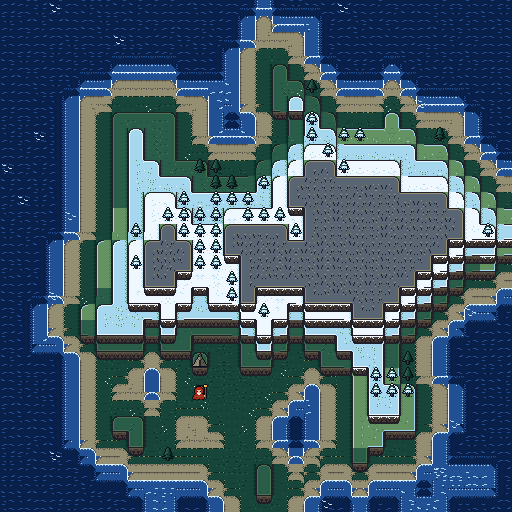
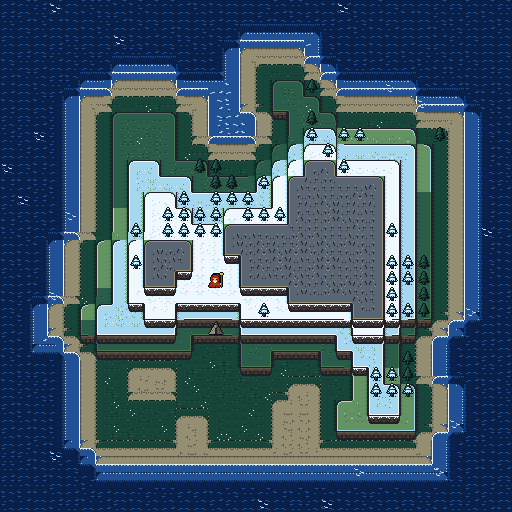
r3 QA fixes: couple birth cooldown, sea border, 2-tile minimum terrain, clock jumps, thirst weakness, draw order
Births: the k-th healthy woman pairs with the k-th healthy man, the mother's cooldown (2 spare bits of the 6-byte record) is 3 days. Island and archipelago keep open sea within 2 tiles of the border and about half land. A despeckle pass removes features narrower than 2 tiles. A forward clock jump over midnight is a new day, a jump back is not. A drink ends thirst weakness. Villagers are drawn in painter's order. Herder deferred to r4 (noted in RELEASE-NOTES).

Claude-Session: https://claude.ai/code/session_014RL3AjDiogV1FwtcmzD5Ni

diff --git a/lib/gamecore/src/village.cpp b/lib/gamecore/src/village.cpp
@@ -6,7 +6,8 @@
 // step round, in the shared scratch buffer g_dist.
 #include "village.h"
 
-enum { F_AGE = 3, F_FEM = 4, F_USED = 8, F_WEAK = 16, F_INSIDE = 32 };       // Vil.fl, bits 6-7: facing
+// Vil.fl: bits 0-1 age class, 2 female, 3 used, 4 weak, 5 and Vil.ra bit 7: a mother's birth cooldown in days (0..3); bits 6-7 facing
+enum { F_AGE = 3, F_FEM = 4, F_USED = 8, F_WEAK = 16 };
 enum { VSTEP_MS = 90, ANIM_MS = 420 };
 enum { K_CENTER = 100, K_WATER = 101, K_TREE = 102, K_SHORE = 103 };            // flow targets besides buildings (index + 1)
 enum { SITE = 0x80 };                                                          // Bld.tp: a building site, not yet finished
@@ -26,14 +27,22 @@ static uint32_t vr(void) { s_rng ^= s_rng << 13; s_rng ^= s_rng >> 17; s_rng ^= 
 
 static int used(int i) { return (V[i].fl & F_USED) != 0; }
 static int vrole(int i) { return V[i].ra & 15; }
-static int vact(int i) { return V[i].ra >> 4; }
+static int vact(int i) { return (V[i].ra >> 4) & 7; }
 static void set_role(int i, int r) { V[i].ra = (uint8_t)((V[i].ra & 0xF0) | r); }
-static void set_act(int i, int a) { V[i].ra = (uint8_t)((V[i].ra & 15) | (a << 4)); }
+static void set_act(int i, int a) { V[i].ra = (uint8_t)((V[i].ra & 0x8F) | (a << 4)); }
+static int cool(int i) { return ((V[i].fl >> 5) & 1) | ((V[i].ra >> 7) << 1); }
+static void set_cool(int i, int c) { V[i].fl = (uint8_t)((V[i].fl & ~32) | ((c & 1) << 5)); V[i].ra = (uint8_t)((V[i].ra & 0x7F) | ((c >> 1) << 7)); }
 static int vcls(int i) { return V[i].fl & F_AGE; }
 static int hunger(int i) { return V[i].nd & 7; }
 static int thirst(int i) { return V[i].nd >> 3; }
 static void set_hunger(int i, int h) { V[i].nd = (uint8_t)((V[i].nd & 0xF8) | (h > 7 ? 7 : h)); }
 static void set_thirst(int i, int t) { V[i].nd = (uint8_t)((V[i].nd & 7) | ((t > 31 ? 31 : t) << 3)); }
+// a drink ends the weakness of thirst at once (hunger weakness ends at the next meal)
+static void drink(int i) {
+  set_thirst(i, 0);
+  if (hunger(i) < HUNGER_WEAK) V[i].fl &= (uint8_t)~F_WEAK;
+}
+
 static int life(int i) { int v = V[i].age >> 5; return 20 + v + (v == 7 ? 1 : 0); }     // adult lifespan, 20..28 days
 static int days(int i) { return V[i].age & 31; }
 static int is_moving(int i) { int a = vact(i); return a == A_GO || a == A_BED || a == A_DRINK || a == A_RET; }
@@ -320,21 +329,28 @@ void village_new_day(int night) {
     trees++;
     mark_tile(x, y);
   }
-  // a child is born when there is a free bed, two days of food to spare and a fertile couple
-  int p = pop(), m = 0, f = 0;
-  for (int i = 0; i < MAXV; i++)
-    if (used(i) && vcls(i) == AGE_ADULT && !(V[i].fl & F_WEAK)) { if (V[i].fl & F_FEM) f++; else m++; }
-  if (p < MAXV && m && f && p < capacity() && s_food >= (uint16_t)(p * 6)) {
-    int x, y;
+  // Couples: the k-th healthy woman and the k-th healthy man of working age. A couple has a child about every 3 days
+  // (the woman's cooldown), when there is a free bed and two days of food to spare.
+  for (int i = 0; i < MAXV; i++) if (used(i) && cool(i) > 0) set_cool(i, cool(i) - 1);
+  for (int k = 0;; k++) {
+    int w = -1, m = -1, n;
+    n = k;
+    for (int i = 0; i < MAXV && w < 0; i++) if (used(i) && vcls(i) == AGE_ADULT && (V[i].fl & F_FEM) && !(V[i].fl & F_WEAK) && n-- == 0) w = i;
+    n = k;
+    for (int i = 0; i < MAXV && m < 0; i++) if (used(i) && vcls(i) == AGE_ADULT && !(V[i].fl & F_FEM) && !(V[i].fl & F_WEAK) && n-- == 0) m = i;
+    if (w < 0 || m < 0) break;
+    int p = pop();
+    if (cool(w) > 0 || p >= MAXV || p >= capacity() || s_food < (uint16_t)(p * 6)) continue;
     int i = add_villager(AGE_CHILD, (int)(vr() & 1), 0, cx(), cy());
-    if (i >= 0) {
-      rebuild_homes();
-      home_spot(i, &x, &y);
-      V[i].x = (uint8_t)x; V[i].y = (uint8_t)y;
-      V[i].age = (uint8_t)(V[i].age & 0xE0);
-      s_births++;
-      mark_tile(x, y);
-    }
+    if (i < 0) break;
+    rebuild_homes();
+    int x, y;
+    home_spot(i, &x, &y);
+    V[i].x = (uint8_t)x; V[i].y = (uint8_t)y;
+    V[i].age = (uint8_t)(V[i].age & 0xE0);
+    set_cool(w, 3);
+    s_births++;
+    mark_tile(x, y);
   }
 }
 
@@ -373,9 +389,9 @@ void village_minute(int m, int night) {
     if (!used(i)) continue;
     int a = vact(i);
     if (night) {
-      if (a != A_BED && a != A_SLEEP) { set_act(i, A_BED); V[i].fl &= (uint8_t)~F_INSIDE; }
+      if (a != A_BED && a != A_SLEEP) set_act(i, A_BED);
     } else if (a == A_BED || a == A_SLEEP) {
-      set_act(i, A_IDLE); V[i].fl &= (uint8_t)~F_INSIDE; s_woke = 1; mark_tile(V[i].x, V[i].y);
+      set_act(i, A_IDLE); s_woke = 1; mark_tile(V[i].x, V[i].y);
     }
   }
   rebuild_homes();
@@ -394,7 +410,7 @@ void village_minute(int m, int night) {
     if (!used(i) || thirst(i) < 12) continue;
     int a = vact(i);
     if (a == A_BED || a == A_SLEEP || a == A_EAT || a == A_DRINK || a == A_RET) continue;
-    if (s_water > 0) { s_water--; set_thirst(i, 0); }
+    if (s_water > 0) { s_water--; drink(i); }
     else set_act(i, A_DRINK);
   }
 
@@ -470,8 +486,8 @@ void village_minute(int m, int night) {
 // ---------------------------------------------------------------- walking
 static void arrive(int i) {
   switch (vact(i)) {
-    case A_BED: set_act(i, A_SLEEP); if (s_home[i] < MAXB) V[i].fl |= F_INSIDE; mark_tile(V[i].x, V[i].y); break;
-    case A_DRINK: set_thirst(i, 0); set_act(i, A_IDLE); break;
+    case A_BED: set_act(i, A_SLEEP); mark_tile(V[i].x, V[i].y); break;
+    case A_DRINK: drink(i); set_act(i, A_IDLE); break;
     case A_GO: set_act(i, vrole(i) == R_CARRIER ? A_RET : A_WORK); break;
     case A_RET: s_water = (uint8_t)(s_water > 242 ? 250 : s_water + 8); set_act(i, A_IDLE); break;
     default: break;
@@ -581,8 +597,10 @@ void village_draw(uint16_t* out, int wx0, int wy0) {
   }
   // villagers
   uint8_t rm[16];
+  // painter's order: villagers lower on the map are drawn after (over) the ones above them
+  for (int row = (wy0 > 0 ? wy0 >> 4 : 0); row <= (wy0 > 0 ? wy0 >> 4 : 0) + 2; row++)
   for (int i = 0; i < MAXV; i++) {
-    if (!used(i) || (V[i].fl & F_INSIDE)) continue;
+    if (!used(i) || V[i].y != row || (vact(i) == A_SLEEP && s_home[i] < MAXB)) continue;      // asleep in a bed: indoors
     int sx = V[i].x * GC_TILE - wx0, sy = V[i].y * GC_TILE;
     if (sy + GC_TILE <= wy0 || sy - 10 >= wy0 + GC_STRIP_H || sx + 16 <= 0 || sx >= GC_W) continue;
     int role = vrole(i), act = vact(i), cls = vcls(i), dir = V[i].fl >> 6;
@@ -728,6 +746,7 @@ void village_debug(int cmd, int32_t arg) {
       rebuild_homes(); assign_roles();
       break;
     }
+    case 3: for (int k = 0; k < MAXV; k++) if (used(k)) { set_thirst(k, arg < 0 ? 0 : arg); if (arg >= 28) V[k].fl |= F_WEAK; } break;
     default: break;
   }
 }

diff --git a/test/test_worldgen.cpp b/test/test_worldgen.cpp
@@ -157,17 +157,29 @@ static void test_idle_dirty() {
   CHECK(gc_dirty_mask() == 0);
 }
 
-// Shape of the land (r3 polish): islands and archipelagos cover about half the map, the coast is ragged and no height
-// band is a near-axis-aligned rectangle (the nested square rings of r2).
+// Shape of the land (r3 polish): islands and archipelagos cover about half the map and leave open sea along the border,
+// the coast is ragged, no height band is a near-axis-aligned rectangle (the nested square rings of r2) and nothing is
+// narrower than 2 tiles.
 static void test_shape_irregular() {
-  double sum_ratio = 0; int n = 0;
+  double sum_ratio[6] = {0}; int n[6] = {0};
+  long narrow = 0, worlds = 0;
   for (uint32_t seed = 1; seed <= 120; seed++)
     for (int lf = 0; lf < 6; lf++) {
       world_generate(seed, lf, (int)(seed & 3));
-      int land = 0, per = 0;
+      worlds++;
+      int land = 0, shore = 0, per = 0, edge_land = 0;
       for (int y = 0; y < WM; y++)
         for (int x = 0; x < WM; x++) {
-          if (MT_H(g_map[y * WM + x]) < 3) continue;
+          int h = MT_H(g_map[y * WM + x]);
+          if (h >= 2) shore++;
+          if (h >= 2 && (x < 2 || y < 2 || x >= WM - 2 || y >= WM - 2)) edge_land++;
+          for (int t = 1; t <= 7; t++) {      // ribbons, spikes and pillars narrower than 2 tiles
+            if (h < t) continue;
+            int l = x > 0 ? MT_H(g_map[y * WM + x - 1]) : h, r = x < WM - 1 ? MT_H(g_map[y * WM + x + 1]) : h;
+            int u = y > 0 ? MT_H(g_map[(y - 1) * WM + x]) : h, d = y < WM - 1 ? MT_H(g_map[(y + 1) * WM + x]) : h;
+            if ((l < t && r < t) || (u < t && d < t)) narrow++;
+          }
+          if (h < 3) continue;
           land++;
           static const int dx[4] = {1, -1, 0, 0}, dy[4] = {0, 0, 1, -1};
           for (int k = 0; k < 4; k++) {
@@ -175,12 +187,13 @@ static void test_shape_irregular() {
             if (a < 0 || b < 0 || a >= WM || b >= WM || MT_H(g_map[b * WM + a]) < 3) per++;
           }
         }
-      if (lf == LF_ISLAND || lf == LF_ARCH) CHECK(land * 100 >= WM * WM * 40);      // room for the village
+      if (lf == LF_ISLAND || lf == LF_ARCH) {
+        CHECK(shore * 100 >= WM * WM * 42 && shore * 100 <= WM * WM * 62);       // about half the map, beaches included
+        CHECK(edge_land == 0);                                                     // sea all round the border
+        CHECK(land >= 150);                                                        // room for the village
+      }
       if (lf != LF_ISLAND && lf != LF_ARCH && lf != LF_PLATEAU) continue;
-      // a square has perimeter 4 * sqrt(area); a smooth disc about 4.5; ragged coasts clearly more
-      double ratio = (double)per / std::sqrt((double)land);
-      if (lf != LF_PLATEAU) CHECK(ratio > 4.9);
-      sum_ratio += ratio; n++;
+      sum_ratio[lf] += (double)per / std::sqrt((double)land); n[lf]++;
       // every height band from 4 up: how much of its bounding box it fills (a rectangle fills it all)
       for (int h = 4; h <= 6; h++) {
         int c = 0, x0 = WM, x1 = -1, y0 = WM, y1 = -1;
@@ -189,10 +202,13 @@ static void test_shape_irregular() {
             if (MT_H(g_map[y * WM + x]) >= h) { c++; if (x < x0) x0 = x; if (x > x1) x1 = x; if (y < y0) y0 = y; if (y > y1) y1 = y; }
         if (c < 40) continue;
         int box = (x1 - x0 + 1) * (y1 - y0 + 1);
-        CHECK(c * 100 < box * 88);
+        CHECK(c * 100 < box * (lf == LF_ISLAND ? 91 : 96));
       }
     }
-  CHECK(n > 0 && sum_ratio / n > 5.6);
+  CHECK(sum_ratio[LF_ISLAND] / n[LF_ISLAND] > 4.8);          // r2's island: 4.57 with bands filling 95% of their box
+  CHECK(sum_ratio[LF_ARCH] / n[LF_ARCH] > 4.8);
+  CHECK(sum_ratio[LF_PLATEAU] / n[LF_PLATEAU] > 5.0);
+  CHECK(narrow < worlds * 3);                                 // a handful of tiles at most (the start carve and the height smoothing)
 }
 
 int main() {

diff --git a/lib/gamecore/src/world.cpp b/lib/gamecore/src/world.cpp
@@ -155,6 +155,29 @@ static void smooth_heights(void) {
   }
 }
 
+// Removes everything narrower than 2 tiles from every height band: a tile of height >= t with lower neighbours on both
+// sides (left and right, or above and below) is a ribbon, spike or pillar and is lowered; a lower tile between two
+// higher ones is a crack and is filled. Coasts and terraces end up at least 2 tiles wide.
+enum { LAND_TARGET = 54 };
+static void despeckle(void) {
+  for (int t = 7; t >= 1; t--)
+    for (int y = 0; y < WM; y++)
+      for (int x = 0; x < WM; x++) {
+        int h = hgt(x, y);
+        if (h < t) continue;
+        int l = x > 0 ? hgt(x - 1, y) : h, r = x < WM - 1 ? hgt(x + 1, y) : h, u = y > 0 ? hgt(x, y - 1) : h, d = y < WM - 1 ? hgt(x, y + 1) : h;
+        if ((l < t && r < t) || (u < t && d < t)) g_map[TI(x, y)] = (uint8_t)((g_map[TI(x, y)] & ~7) | (t - 1));
+      }
+  for (int t = 1; t <= 7; t++)
+    for (int y = 0; y < WM; y++)
+      for (int x = 0; x < WM; x++) {
+        int h = hgt(x, y);
+        if (h >= t) continue;
+        int l = x > 0 ? hgt(x - 1, y) : h, r = x < WM - 1 ? hgt(x + 1, y) : h, u = y > 0 ? hgt(x, y - 1) : h, d = y < WM - 1 ? hgt(x, y + 1) : h;
+        if ((l >= t && r >= t) || (u >= t && d >= t)) g_map[TI(x, y)] = (uint8_t)((g_map[TI(x, y)] & ~7) | t);
+      }
+}
+
 // ------------------------------------------------------------------------------------------------ walking
 static int walk_ok(uint8_t b) { int h = MT_H(b); return h >= 2 && h <= 6 && MT_OBJ(b) == OB_NONE && MT_SOIL(b) != SOIL_BUILT; }
 int world_walkable(int tx, int ty) { return tx >= 0 && ty >= 0 && tx < WM && ty < WM && walk_ok(g_map[TI(tx, ty)]); }
@@ -293,20 +316,21 @@ void world_generate(uint32_t seed, int landform, int climate) {
   s_rng = hash32(seed ^ 0xa511e9b3U) | 1;
   s_salt = hash32(seed + 77);
   shape_init(landform);
-  // islands and archipelagos are raised until at least ~45% of the map is land, so the village has room
-  int bias = 0;
+  // islands and archipelagos are raised until about half of the map is land, with open sea along the border
+  int bias = 0, sea_edge = landform == LF_ISLAND || landform == LF_ARCH;
   for (int attempt = 0; attempt < 10; attempt++) {
     int land = 0;
     for (int y = 0; y < WM; y++)
       for (int x = 0; x < WM; x++) {
         int h = height_of(elevation(landform, x, y) + bias);
+        if (sea_edge && (x < 2 || y < 2 || x >= WM - 2 || y >= WM - 2)) h = 0;
         g_map[TI(x, y)] = (uint8_t)h;
         land += h >= 3;
       }
-    if ((landform != LF_ISLAND && landform != LF_ARCH) || land * 100 >= WM * WM * 56) break;
+    if (!sea_edge || land * 100 >= WM * WM * LAND_TARGET) break;
     bias += 14;
   }
-  smooth_heights();
+  for (int pass = 0; pass < 2; pass++) { despeckle(); smooth_heights(); }
 
   // ground: snow caps in the north, fertile soil by the water, dry soil on the savanna
   for (int y = 0; y < WM; y++)

diff --git a/test/test_village.cpp b/test/test_village.cpp
@@ -147,7 +147,65 @@ static void test_save_round_trip() {
   }
 }
 
+// A couple has a child about every 3 days, not every midnight.
+static void test_birth_cadence() {
+  gc_init(GC_SCENE_VILLAGE, 777, 0);
+  gc_debug(GQ_DBG_WOOD, 400);
+  int wall = 5 * 60;
+  gc_set_clock(5, 0, 1);
+  int day_of_birth[10], seen = 0, last = 0;
+  for (int d = 0; d < 9; d++) {
+    for (int m = 0; m < 1440; m++) { minute(wall); if (m % 200 == 0) gc_debug(GQ_DBG_FOOD, 700); }
+    int b = vq(Q_BIRTHS);
+    if (b > last) { day_of_birth[seen++ % 10] = d; last = b; }
+    if (d == 4) CHECK(vq(Q_BIRTHS) >= 1 && vq(Q_BIRTHS) <= 2);          // days 1 and 4 at most, for the only couple
+  }
+  CHECK(vq(Q_BIRTHS) >= 2 && vq(Q_BIRTHS) <= 5);
+  std::printf("births on days:");
+  for (int i = 0; i < seen && i < 10; i++) std::printf(" %d", day_of_birth[i]);
+  std::printf("\n");
+}
+
+// A forward jump over midnight is a new day, a jump back (time zone, NTP fix) is not.
+static void test_clock_jumps() {
+  gc_init(GC_SCENE_VILLAGE, 31, 0);
+  gc_set_clock(23, 50, 1);
+  int d0 = (int)gc_query(GQ_Q_DAY);
+  gc_set_clock(0, 30, 1);                                                // 40 minutes forward over midnight
+  CHECK((int)gc_query(GQ_Q_DAY) == d0 + 1);
+  gc_set_clock(22, 0, 1);                                                // 21.5 hours "forward" = a big step back
+  CHECK((int)gc_query(GQ_Q_DAY) == d0 + 1);
+  gc_set_clock(7, 0, 1);                                                 // 9 hours forward over midnight
+  CHECK((int)gc_query(GQ_Q_DAY) == d0 + 2);
+  gc_set_clock(20, 0, 1);                                                // same day
+  CHECK((int)gc_query(GQ_Q_DAY) == d0 + 2);
+  gc_set_clock(8, 0, 1);                                                 // 12 hours back: not a new day
+  CHECK((int)gc_query(GQ_Q_DAY) == d0 + 2);
+  gc_set_clock(3, 0, 1);                                                 // 5 hours back: not a new day
+  CHECK((int)gc_query(GQ_Q_DAY) == d0 + 2);
+  gc_set_clock(23, 59, 1);
+  gc_set_clock(0, 0, 1);                                                 // the ordinary midnight
+  CHECK((int)gc_query(GQ_Q_DAY) == d0 + 3);
+}
+
+// Weakness from thirst ends with the drink, not with the next meal.
+static void test_thirst_weakness() {
+  gc_init(GC_SCENE_VILLAGE, 4244, 0);
+  gc_debug(GQ_DBG_FOOD, 100);
+  int wall = 8 * 60;
+  gc_set_clock(8, 0, 1);
+  for (int i = 0; i < 8; i++) gc_tick(500);
+  gc_debug(GQ_DBG_THIRST, 30);
+  int weak_seen = vq(Q_WEAK) > 0;
+  for (int m = 0; m < 100; m++) { minute(wall); if (vq(Q_WEAK) > 0) weak_seen = 1; }
+  CHECK(weak_seen);
+  CHECK(wall < 12 * 60 + 30 && vq(Q_WEAK) == 0);                         // no meal in between
+}
+
 int main() {
+  test_clock_jumps();
+  test_birth_cadence();
+  test_thirst_weakness();
   test_meals_hunger_sleep();
   test_births_and_growth();
   test_save_round_trip();

diff --git a/lib/gamecore/src/godus.cpp b/lib/gamecore/src/godus.cpp
@@ -153,7 +153,9 @@ void world_clock_changed(void) {
       if (mm == 0) world_new_day();
       village_minute(mm, night_at(mm));
     }
-  } else if (s_last_min >= 0 && m < s_last_min && s_last_min - m > 600) world_new_day();
+  } else if (d > 2 && d < 720 && s_last_min + d >= 1440) {   // a forward jump over midnight is a new day; a jump back (time zone, NTP) is not
+    world_new_day();
+  }
   s_last_min = m;
   G.s.minute = (uint16_t)m;
 }
@@ -559,6 +561,7 @@ void world_debug(int cmd, int32_t arg) {
   else if (cmd == GQ_DBG_FOOD) village_debug(0, arg);
   else if (cmd == GQ_DBG_WOOD) village_debug(1, arg);
   else if (cmd == GQ_DBG_ADD_VILLAGERS) village_debug(2, arg);
+  else if (cmd == GQ_DBG_THIRST) village_debug(3, arg);
   else if (cmd == GQ_DBG_SET_SEED) new_world((uint32_t)arg, 1);
   else if (cmd == GQ_DBG_FORCE_LAND) s_force_l = (int8_t)(arg >= 0 && arg < LF_COUNT ? arg : -1);
   else if (cmd == GQ_DBG_FORCE_CLIM) s_force_c = (int8_t)(arg >= 0 && arg < CL_COUNT ? arg : -1);

diff --git a/lib/gamecore/src/gq_types.h b/lib/gamecore/src/gq_types.h
@@ -46,7 +46,8 @@ enum { GQ_DBG_SET_DAY, GQ_DBG_NEXT_DAY, GQ_DBG_FORCE_ACT /*arg = GQ_ACT_**/,
        GQ_DBG_SET_CAM,
        GQ_DBG_FOOD,           // arg = food stock
        GQ_DBG_WOOD,           // arg = wood stock
-       GQ_DBG_ADD_VILLAGERS };// arg = number of adults to add      // arg = x + 1024 * y (world pixels), clamped; the camera follows the shaman again after he moves
+       GQ_DBG_ADD_VILLAGERS,  // arg = number of adults to add
+       GQ_DBG_THIRST };       // arg = thirst of every villager (0..31)      // arg = x + 1024 * y (world pixels), clamped; the camera follows the shaman again after he moves
 
 // ---- the saved state, 192 bytes, little-endian, no padding. The core only exports and imports bytes;
 // firmware/store.cpp keeps them in flash.

diff --git a/RELEASE-NOTES.md b/RELEASE-NOTES.md
@@ -1,12 +1,14 @@
 What is new in MiniGodus r3:
 
-- Villagers: up to 48, 6 bytes each, starting with one couple. Three meals a day at 07:30, 12:30 and 19:00 local time, thirst and water trips, weak after 4 missed meals and death after 6, children grow up in 5 days, adults live 20 to 28 days, elders pray, a child is born when there is a free bed and two days of food to spare. They sleep on the clock's sleep schedule.
+- Villagers: up to 48, 6 bytes each, starting with one couple; a couple has a child about every 3 days. Three meals a day at 07:30, 12:30 and 19:00 local time, thirst and water trips, weak after 4 missed meals and death after 6, children grow up in 5 days, adults live 20 to 28 days, elders pray, a child needs a free bed and two days of food to spare. They sleep on the clock's sleep schedule.
 - Daily roles chosen by need each morning, each with its own tunic and tool animation: farmer, fisher, lumberjack, builder, healer, water carrier, child, elder (herder once pens exist).
 - Buildings built by the village itself: tents, huts, wheat fields (three growth stages), fishing huts and wells. Faith is produced by awake adults and praying elders. The shaman now wanders near the village.
 - Top bar: one big counter (16 px icon, clock-sized digits) cycling faith, population, food, wood every 3 s, with real values.
 - Polish: snow terraces now have visible cliff faces and shading; cliff and rock tops have a warm rim instead of a water-like cyan; heights come from fractal noise with a domain warp, so islands, coasts and cliffs are irregular, and islands and archipelagos cover about half the map (before and after pictures in the README).
 - Memory: the quarter table is a window around the camera and every pathfinding or site search shares one distance buffer, so r3 uses less static RAM than r2 even with the village.
 - Saved game format version 3 (village in the reserved bytes: the first 16 villagers and 18 buildings, the stocks; the complete save is release r6). An r2 save is ignored and a new world starts. Recovery layer, update page, hotspot, safe mode, the flash area 0x80000-0x82FFF and the 500 KB limit are unchanged.
+- Known limits of r3: the herder role exists but nobody is assigned to it until animal pens arrive in r4; the saved game holds only the first 16 villagers and 18 buildings (the complete save is r6).
+- Land: a smoothing pass removes ribbons, spikes and pillars narrower than 2 tiles; islands and archipelagos keep open sea along the border. A forward jump of the clock over midnight counts as a new day, a jump back (time zone, NTP) does not. Weakness from thirst ends with the drink.
 - New tests: test/test_village.cpp (10 simulated days on 20 seeds under ASan, meals at real times, hunger, births, save round trip with garbage bytes), a land-shape irregularity test in test/test_worldgen.cpp.
 
 What was new in MiniGodus r2:

diff --git a/README.md b/README.md
@@ -78,8 +78,8 @@ frame; the 13 map strips are then redrawn from those tables while the camera scr
 | ![](docs/screenshots/village-river-valley-tropical.png) | ![](docs/screenshots/village-island-northern.png) |
 
 **People.** Up to 48 villagers, 6 bytes each. The game starts with one couple in a tent. A child grows up in 5 days; an adult
-lives 20 to 28 days (the last 5 are spent as an elder, who prays). A child is born, at most one a day, when there is a free
-bed, two days of food to spare and an adult man and woman who are not weak. Hunger is counted in missed meals: weak after 4,
+lives 20 to 28 days (the last 5 are spent as an elder, who prays). Villagers pair up (the k-th healthy woman with the k-th healthy man); a couple has a child about every 3 days, when there is a free
+bed and two days of food to spare. Hunger is counted in missed meals: weak after 4,
 death after 6 (7 with a healer awake). Thirst is satisfied at a well or on the shore; a water carrier fills a stock that
 everybody can drink from.
 
@@ -102,7 +102,7 @@ The saved game (still 192 bytes) holds the first 16 villagers and 18 buildings, 
 save is release r6.
 
 The land itself got a pass in r3: heights come from fractal noise with a domain warp before the landform shape is applied,
-so coasts and cliffs are irregular instead of nested rings, and islands and archipelagos cover about half the map.
+so coasts and cliffs are irregular instead of nested rings, and a smoothing pass removes everything narrower than 2 tiles. Islands and archipelagos cover about half the map, with open sea along the border.
 
 | Before (r2) | After (r3) |
 |---|---|
